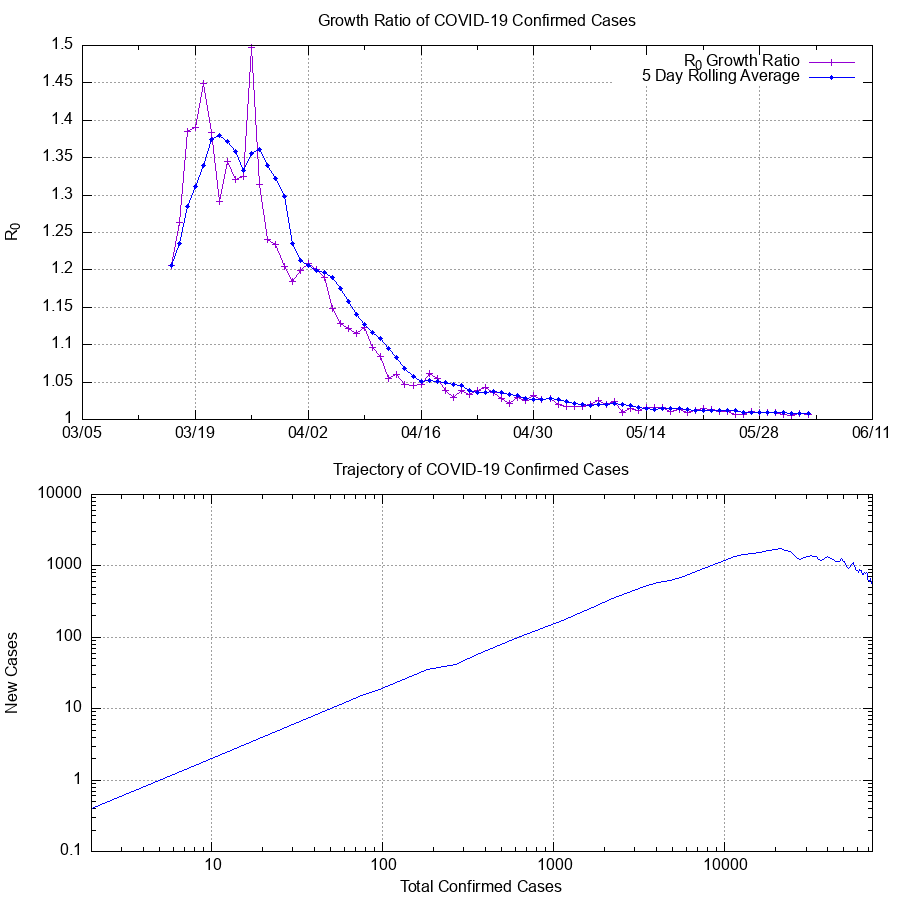
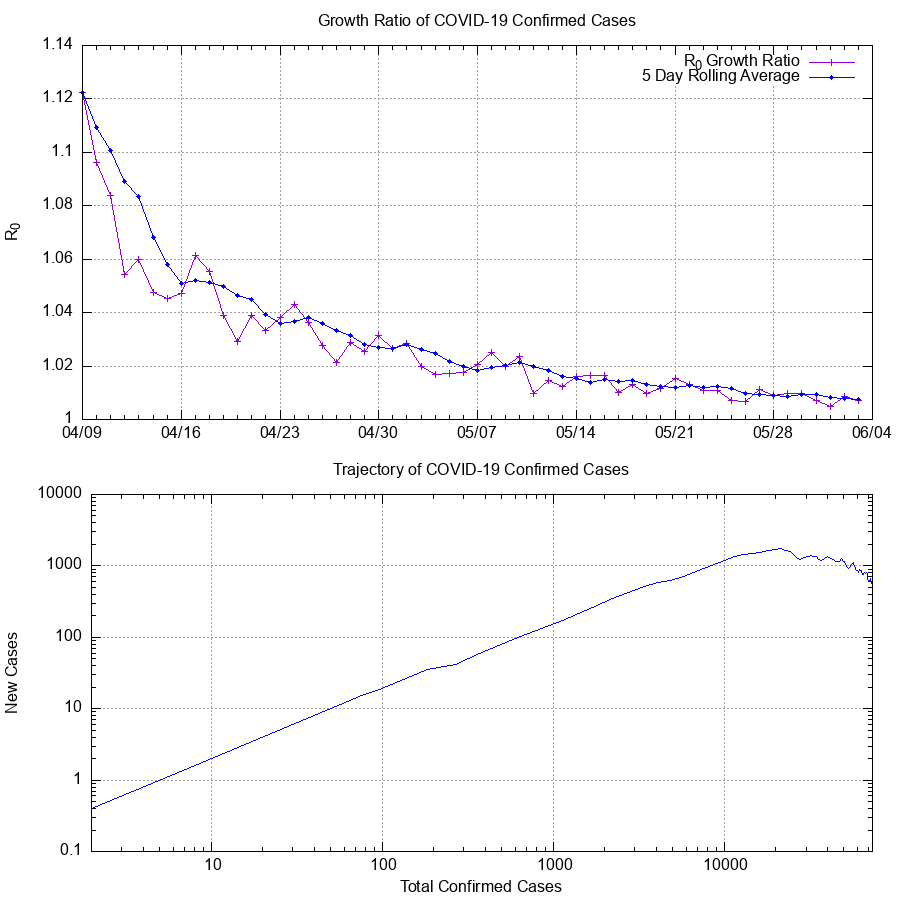
Reduce y range of Growth Ratio plot

diff --git a/README.md b/README.md
@@ -184,6 +184,12 @@ reporting performed by actual epidemiologists and data scientists.
 - 27 May 2020: As a fun little add on, the decoded text version of the genome has
   been added to the repository.
 
+- 3 Jun 2020: Changed the range for the Growth Ratio plot to provide more detail
+  in the recent data, as it begins to asymptotically approach a value of `1`. As
+  such, this graph now only shows data >30 days in. Once the overall event has
+  slowed to 'near completion', the range of this plot will be re-opened to show
+  the growth ratio over the entire course of the event.
+
 ## Sample Output
 ```
 * Map, table and case count last updated at 12:00 p.m. on 3/26/2020
